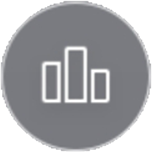
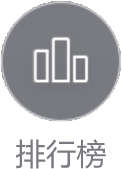
add resources & helpbox & fix some bugs

diff --git a/front/miniprogram/js/scenes/welcome.js b/front/miniprogram/js/scenes/welcome.js
@@ -9,41 +9,49 @@ import * as CONST from '../libs/constants'
 let gamestatus = new GameStatus()
 let network = new Network()
 export default class WelcomeScene extends UI {
-  constructor(){
-    super('resources/welcome.png')
+  constructor() {
+    super('resources/startbg.png')
     this.handlingAuth = false
+    wx.cloud.callFunction({
+      name: 'login',
+      success: res => {
+        console.log('called cloud function')
+        gamestatus.openID = res.result.openid
+        wx.postMessage({
+            command: 'init',
+            openid: res.result.openid
+          })
+      },
+      fail: err => {
+        console.error('get openid failed with error', err)
+      }
+    })
     this.setUpScene()
   }
-  setUpScene(){
+  setUpScene() {
     this.doWeHaveToUseThis = wx.createUserInfoButton({
       type: 'image',
       image: 'resources/start.png',
       style: {
-        left: 608 * window.innerWidth / 1920,
-        top: 632 * window.innerHeight / 1080,
+        left: 705 * window.innerWidth / 1920,
+        top: 630 * window.innerHeight / 1080,
         width: 510 * window.innerWidth / 1920,
         height: 154 * window.innerHeight / 1080
       }
     })
     this.doWeHaveToUseThis.onTap((info) => {
-      wx.cloud.callFunction({
-        name: 'login',
-        success: res => {
-          console.log('called cloud function')
-          gamestatus.openID = res.result.openid
-          this.handleAuthorizeEvent(info)
-        },
-        fail: err => {
-          console.error('get openid failed with error', err)
-        }
-      })      
+      this.handleAuthorizeEvent(info)
     })
+
     this.buttonsSet = false
-    this.btnRanklist = new Button('resources/rank_button.png', 152, 152, 0 , 0)
-    this.btnBack = new Button('resources/back_button.png',121, 123,-650,-385)
+    this.btnRanklist = new Button('resources/rank_button.png', 122, 169, 581, -460)
+    this.btnHelp = new Button('resources/help_button.png', 122, 169, 756, -460)
+    this.btnBack = new Button('resources/back_button.png', 100, 100, -690, 275, 3)
     this.tryToInitButtons()
+
+    this.helpBox = new DisplayBox('resources/helpbg.png', 1450, 800, -725, -400, 2, true)
   }
-  fail(res){
+  fail(res) {
     console.log(`fail info: ${res}`)
   }
 
@@ -56,6 +64,11 @@ export default class WelcomeScene extends UI {
       this.btnRanklist.showButton()
     }
 
+    if (this.btnHelp.loaded && !this.btnHelp.boundScene) {
+      this.btnHelp.init(this.scene)
+      this.btnHelp.showButton()
+    }
+
     if (this.btnBack.loaded && !this.btnBack.boundScene) {
       this.btnBack.init(this.scene)
       this.btnBack.hideButton()
@@ -63,23 +76,23 @@ export default class WelcomeScene extends UI {
 
     this.buttonsSet = this.buttonsSet || (this.btnRanklist.boundScene && this.btnBack.boundScene)
   }
-  handleAuthorizeEvent(res){
-    if(this.handlingAuth){
+  handleAuthorizeEvent(res) {
+    if (this.handlingAuth) {
       return
     }
     this.handlingAuth = true
     let shareData = wx.getLaunchOptionsSync().query.teamid
     gamestatus.setSelfInfo(JSON.parse(res.rawData))
     console.log(shareData)
-    if(shareData === undefined){
+    if (shareData === undefined) {
       console.log('host')
       gamestatus.host = true
-      network.login(gamestatus.openID, gamestatus.selfInfo, ()=>{
-        network.createTeam(gamestatus.openID, (res)=>{
+      network.login(gamestatus.openID, gamestatus.selfInfo, () => {
+        network.createTeam(gamestatus.openID, (res) => {
           gamestatus.roomID = res.teamid
-          network.initSocket(()=>{
+          network.initSocket(() => {
             gamestatus.socketOn = true
-            network.sendOpenid(gamestatus.openID, ()=>{
+            network.sendOpenid(gamestatus.openID, () => {
               this.animation = true
               this.doWeHaveToUseThis.hide()
             }, this.fail)
@@ -87,17 +100,17 @@ export default class WelcomeScene extends UI {
         }, this.fail)
       }, this.fail)
     }
-    else{
+    else {
       gamestatus.host = false
       gamestatus.roomID = shareData
-      network.login(gamestatus.openID, gamestatus.selfInfo, ()=>{
+      network.login(gamestatus.openID, gamestatus.selfInfo, () => {
         console.log(gamestatus.openID)
         console.log(gamestatus.roomID)
-        network.joinTeam(gamestatus.openID, gamestatus.roomID ,(res)=>{
+        network.joinTeam(gamestatus.openID, gamestatus.roomID, (res) => {
           console.log('gest')
-          network.initSocket(()=>{
+          network.initSocket(() => {
             gamestatus.socketOn = true
-            network.sendOpenid(gamestatus.openID, ()=>{
+            network.sendOpenid(gamestatus.openID, () => {
               this.animation = true
               this.doWeHaveToUseThis.hide()
             }, this.fail)
@@ -111,28 +124,24 @@ export default class WelcomeScene extends UI {
     let sharedCanvas = openDataContext.canvas
     let texture = new THREE.CanvasTexture(sharedCanvas)
     this.rankList = new DisplayBox(texture, 1450, 800, -725, -400, 2, true)
-    this.scene.add(this.rankList.model)
+    this.rankList.initToScene(this.scene)
   }
 
-  hideRanklist() {
-    this.scene.remove(this.rankList.model)
-  }
-
-  loop(){
-    if(!this.loaded){
+  loop() {
+    if (!this.loaded) {
       return
     }
-    if(this.animation){
+    if (this.animation) {
       this.fade()
     }
     this.tryToInitButtons()
   }
-  fade(){
+  fade() {
     this.frame += 1
     //console.log(this.frame)
     this.light.intensity += 4 / CONST.SWITCH_SHORT_FRAME
     this.aLight.intensity += 4 / CONST.SWITCH_SHORT_FRAME
-    if(this.frame === CONST.SWITCH_SHORT_FRAME){
+    if (this.frame === CONST.SWITCH_SHORT_FRAME) {
       this.animation = false
       gamestatus.switchToLobby = true
       this.display = false
@@ -149,6 +158,7 @@ export default class WelcomeScene extends UI {
     if (this.btnRanklist.checkTouch(endX, endY, initX, initY)) {
       this.doWeHaveToUseThis.hide()
       this.btnRanklist.hideButton()
+      this.btnHelp.hideButton()
       this.btnBack.showButton()
       this.showRanklist()
     }
@@ -156,7 +166,17 @@ export default class WelcomeScene extends UI {
       this.btnBack.hideButton()
       this.doWeHaveToUseThis.show()
       this.btnRanklist.showButton()
-      this.hideRanklist()
+      this.btnHelp.showButton()
+      this.helpBox.hide()
+      this.rankList.hide()
+    }
+    else if (this.btnHelp.checkTouch(endX, endY, initX, initY)) {
+      this.doWeHaveToUseThis.hide()
+      this.btnRanklist.hideButton()
+      this.btnHelp.hideButton()
+      this.btnBack.showButton()
+      this.helpBox.initToScene(this.scene)
+      this.helpBox.show()
     }
   }
 }

diff --git a/front/miniprogram/js/myOpenDataContext/index.js b/front/miniprogram/js/myOpenDataContext/index.js
@@ -2,28 +2,38 @@
 let sharedCanvas = wx.getSharedCanvas()
 let context = sharedCanvas.getContext('2d')
 
+let initialized = false;
+
 const bg1 = wx.createImage()
 bg1.onload = function () {
-  render()
+    if(initialized){
+        render()
+    }
 }
 bg1.src = 'resources/ranklist.png'
 
 wx.onMessage(data => {
   let fun = {
+    init: init,
     render: render,
     update: update
   }
   fun[data.command](data)
 })
 
+let score, openid, rank = 0
 
-let score
-wx.getUserCloudStorage({
-  keyList: ['score'],
-  success: res => {
-    score = res.KVDataList[0].value - 0
-  }
-})
+function init(data) {
+  openid = data.openid
+  initialized = true
+  wx.getUserCloudStorage({
+    keyList: ['score'],
+    success: res => {
+      score = res.KVDataList[0].value - 0
+      render()
+    }
+  })
+}
 
 function update(data) {
   // wx.getUserCloudStorage({
@@ -55,6 +65,16 @@ function render(data) {
     keyList: ['score'],
     success: res => {
       drawRankList(res.data)
+      context.font = "42px 微软雅黑"
+      context.fillStyle = "#FFF"
+      context.textBaseline = 'middle'
+      context.textAlign = "center";
+      if (rank === 0) {
+        context.fillText('您暂时没有排行信息，点击开始游戏吧', 725, 725, 1000)
+      }
+      else {
+        context.fillText(`您在所有好友中排名第${rank}`, 725, 725, 1000)
+      }
     }
   })
 }
@@ -64,6 +84,10 @@ function drawRankList(data) {
   let sharedCanvas = wx.getSharedCanvas()
   let context = sharedCanvas.getContext('2d')
   data.forEach((item, index) => {
+    if (item.openid === openid) {
+      rank = index + 1
+    }
+
     if (index < 8) {
       let x = Math.floor(index / 4) * 725
       let y = 150 + 125 * (index % 4)
@@ -75,10 +99,10 @@ function drawRankList(data) {
 
       context.font = "42px 微软雅黑"
       context.fillStyle = "#FFF"
-      context.textBaseline = 'top'
-      context.fillText(index + 1, x + 50, y + 30)
-      context.fillText(item.nickname, x + 250, y + 30, 250)
-      context.fillText(item.KVDataList[0].value, x + 550, y + 30, 159)
+      context.textBaseline = 'middle'
+      context.fillText(index + 1, x + 50, y + 65)
+      context.fillText(item.nickname, x + 250, y + 65, 250)
+      context.fillText(item.KVDataList[0].value, x + 550, y + 65, 159)
     }
   })
 }

diff --git a/front/miniprogram/js/scenes/lobby.js b/front/miniprogram/js/scenes/lobby.js
@@ -18,9 +18,9 @@ export default class LobbyScene extends UI {
     this.selfPhotoSet = false
     this.enemyPhotoSet = false
 
-    this.imReady = new Button('resources/ready.png', CONST.READY_BUTTON_LX, CONST.READY_BUTTON_LY, -775, -375)
-    this.imNotReady = new Button('resources/notready.png', CONST.READY_BUTTON_LX, CONST.READY_BUTTON_LY, -775, -375)
-    this.exitButton = new Button('resources/exit.png', CONST.READY_BUTTON_LX, CONST.READY_BUTTON_LY, -275, -375)
+    this.imReady = new Button('resources/ready.png', CONST.READY_BUTTON_LX, CONST.READY_BUTTON_LY, -800, -375)
+    this.imNotReady = new Button('resources/notready.png', CONST.READY_BUTTON_LX, CONST.READY_BUTTON_LY, -800, -375)
+    this.exitButton = new Button('resources/exit.png', CONST.READY_BUTTON_LX, CONST.READY_BUTTON_LY, -250, -375)
     this.inviteButton = new Button('resources/invite.png', CONST.PHOTO_SIZE, CONST.PHOTO_SIZE, -118, 5)
     this.selfPhoto = null
 
@@ -135,7 +135,7 @@ export default class LobbyScene extends UI {
     context.fillText(gamestatus.selfInfo.nickName, 200, 50, 400)
 
     let texture = new THREE.CanvasTexture(canvas)
-    let displayBox = new DisplayBox(texture, canvas.width, canvas.height, -830, -150)
+    let displayBox = new DisplayBox(texture, canvas.width, canvas.height, -830, -130)
     displayBox.initToScene(this.scene)
   }
 
@@ -152,7 +152,7 @@ export default class LobbyScene extends UI {
     context.fillText(gamestatus.enemyInfo.nickName, 200, 50, 400)
 
     let texture = new THREE.CanvasTexture(canvas)
-    let displayBox = new DisplayBox(texture, canvas.width, canvas.height, -220, -150)
+    let displayBox = new DisplayBox(texture, canvas.width, canvas.height, -220, -130)
     displayBox.initToScene(this.scene)
   }
 

diff --git a/front/miniprogram/js/world/button.js b/front/miniprogram/js/world/button.js
@@ -3,15 +3,15 @@ import * as CONST from '../libs/constants'
 import DisplayBox from '../base/displaybox'
 
 export default class Button extends DisplayBox{
-  constructor(url, lengthX = 0, lengthY = 0, x = 0, y = 0){
-    super(url, lengthX, lengthY, x, y, 1)
+  constructor(url, lengthX = 0, lengthY = 0, x = 0, y = 0, z = 1){
+    super(url, lengthX, lengthY, x, y, z)
     this.available = false
     this.hitBoxLeft = 0
     this.hitBoxRight = 0
     this.hitBoxUp = 0
     this.hitBoxDown = 0
   }
-  init(scene, x = this.x, y = this.y){
+  init(scene, x = this.x, y = this.y, z = this.z){
     if(!this.loaded){
       console.log(`loading`)
       return
@@ -19,7 +19,7 @@ export default class Button extends DisplayBox{
     if(this.boundScene){
       return
     }
-    this.initToScene(scene, x, y, 1)
+    this.initToScene(scene, x, y, z)
     
     let screenlx = this.lengthX * window.innerWidth / CONST.SCREEN_X
     let screenly = this.lengthY * window.innerHeight / CONST.SCREEN_Y

diff --git a/front/miniprogram/game.js b/front/miniprogram/game.js
@@ -8,10 +8,4 @@ let sharedCanvas = openDataContext.canvas
 sharedCanvas.width = 1450
 sharedCanvas.height = 800
 
-setTimeout(function(){
-  wx.postMessage({
-    command:'render'
-  })
-}, 500)
-
 new Game()
